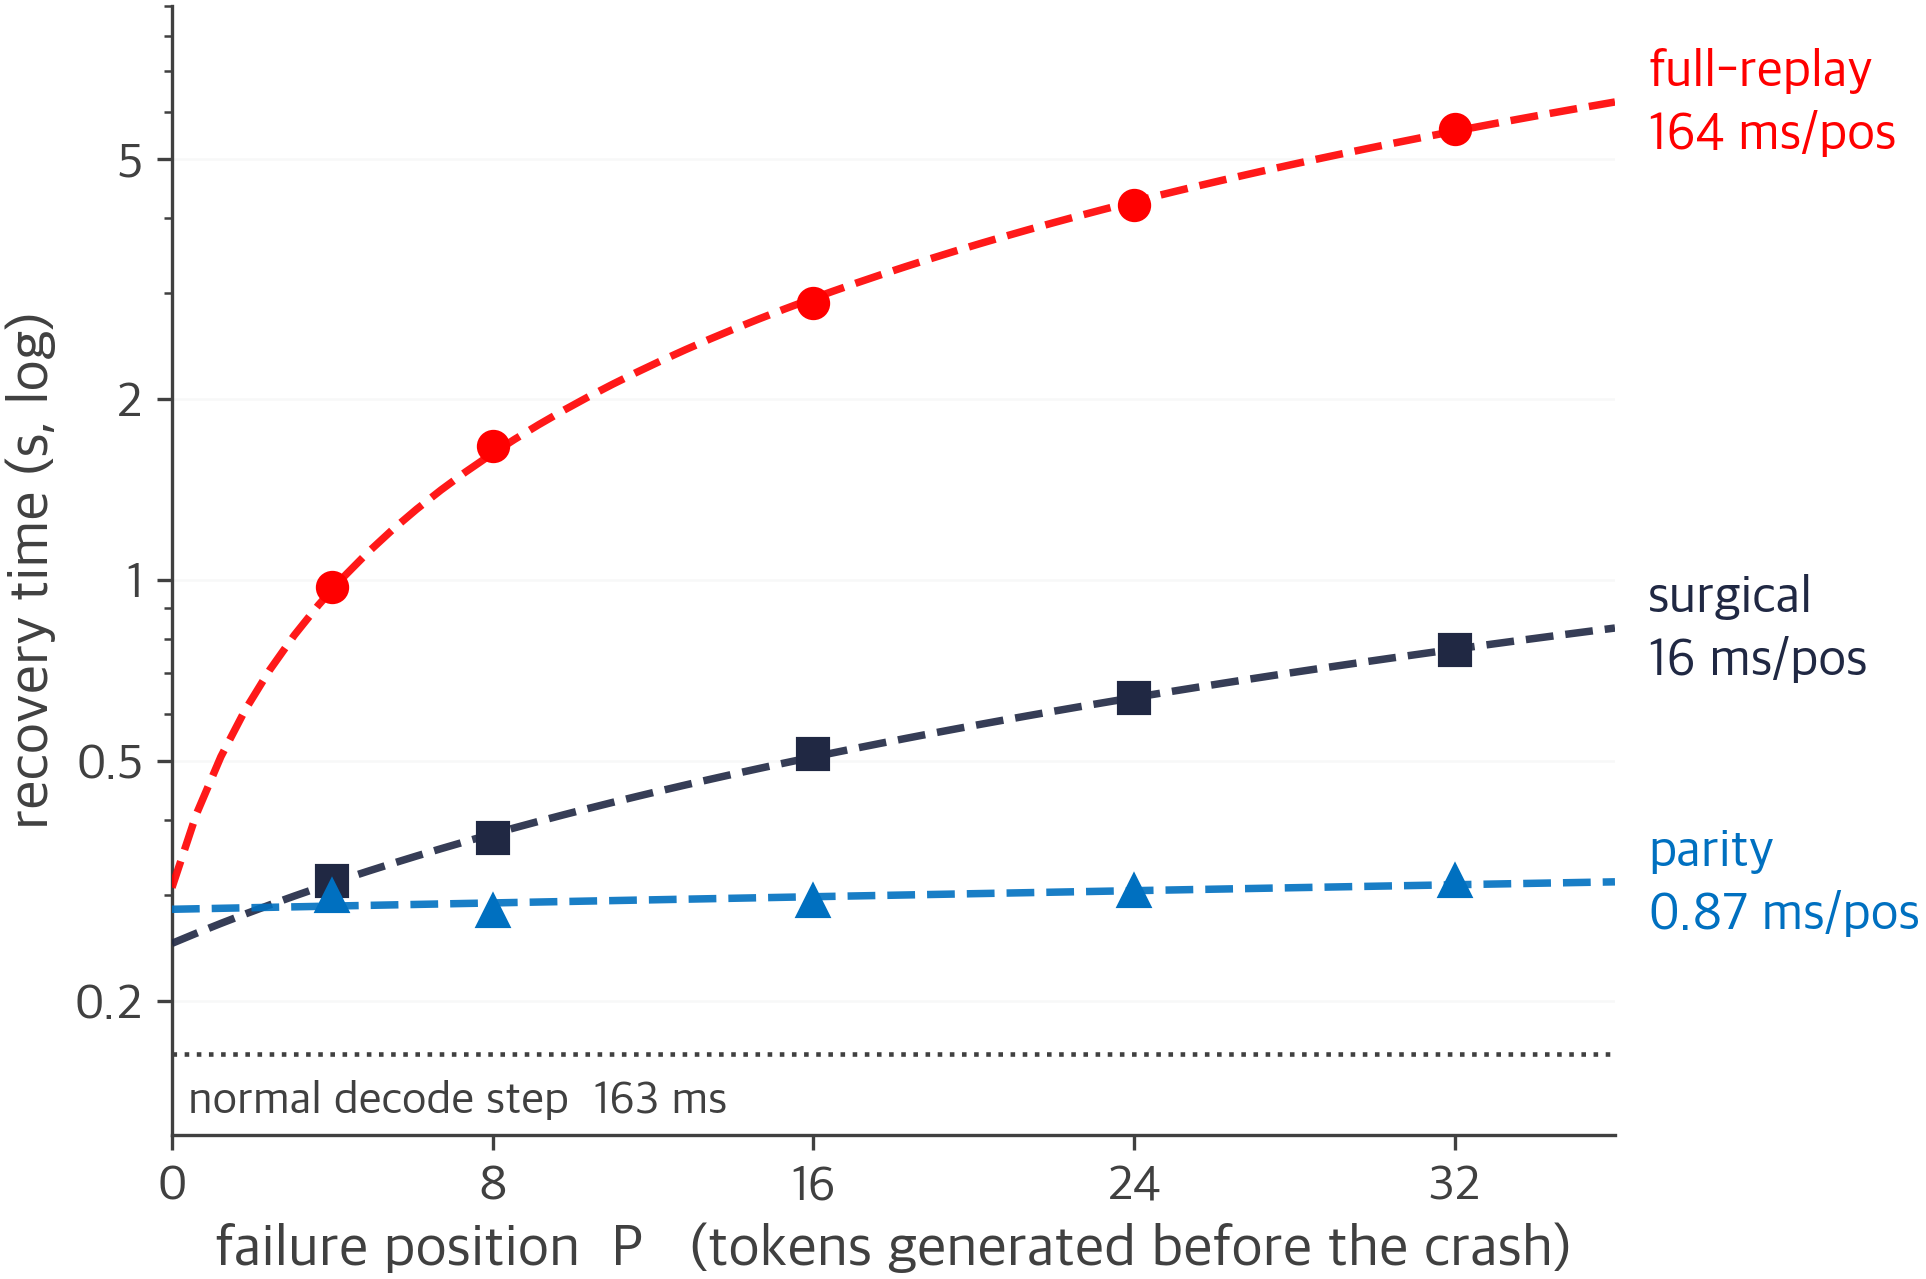
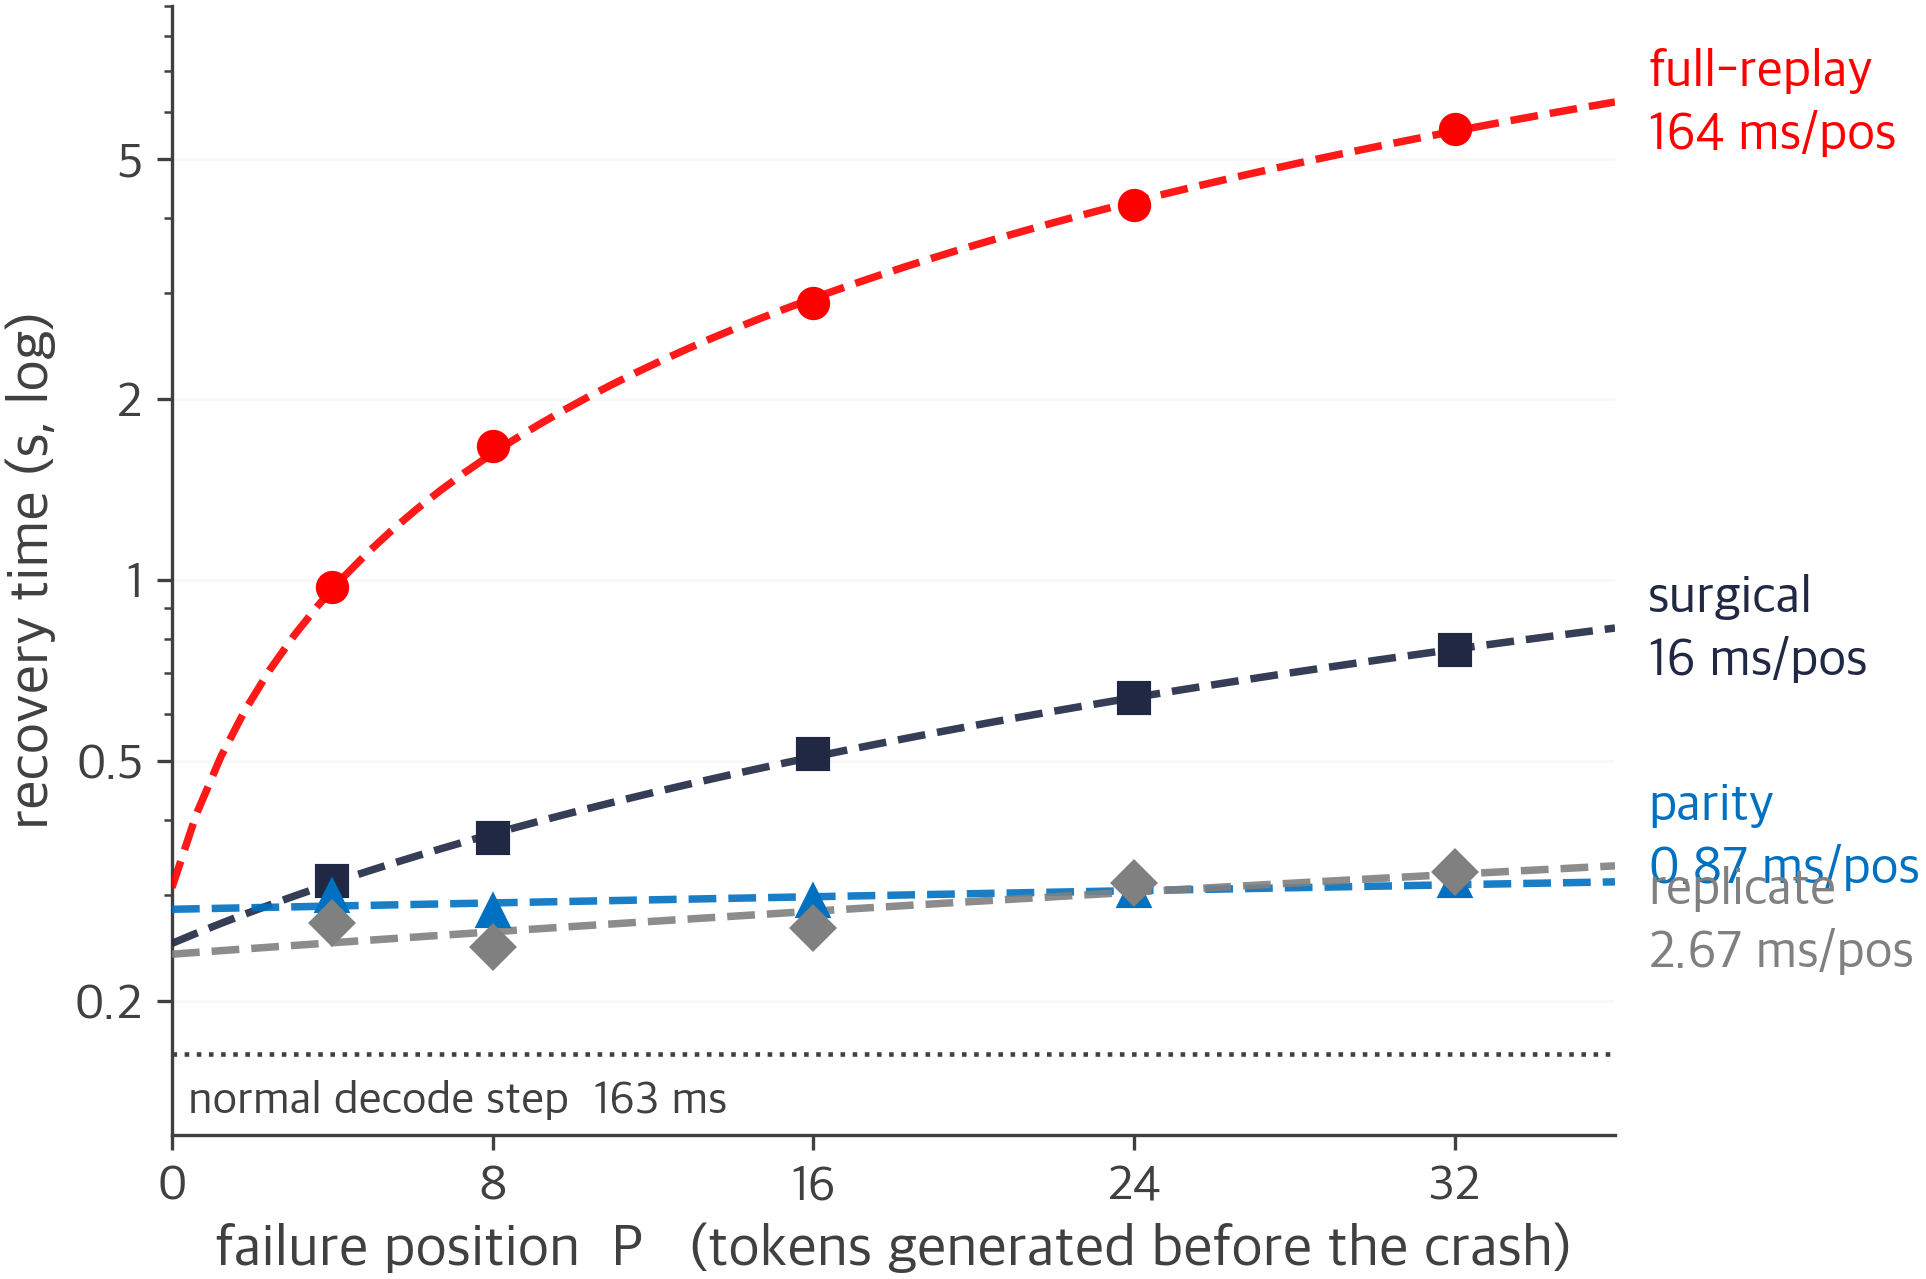
feat(b1): full KV replication fleet measurement — parity's TTR rival
Fleet sweep (victim on-1, OPT-350M, sync chain) 5/5 valid, all
replicate_branch_ran=True: replicate TTR(P) = 239.3ms + 2.67ms*P.

Confirms the 2D-Pareto thesis empirically: replicate is flat like parity
(slope 2.67 vs surgical 16, full-replay 164) — both zero-recompute. replicate's
intercept (239) is BELOW parity's (284) because replicate installs one stored
copy while parity fetches N-1 survivors + XORs; slopes cross at P~=25, so on
TTR they effectively tie. parity's only advantage is steady-state storage:
max vs Sigma = 2.25x (9->4 layers), O(1) vs O(N). Hence the comparison is a
2D Pareto (TTR x storage) where only parity sits in the low-low corner;
replicate is Pareto-close but pays 2.25x storage.

- b1_ft_overhead.json computed (replicate 36864B vs parity 16384B).
- fig_recovery_2d (Pareto), fig_recovery_ttr_slide (4 lines, log axis, parity/
  replicate labels de-collided), fig_storage_scaling regenerated from real data.
- REPORT §B1-REPLICATE + finding #12; PHASES Phase B1-REPLICATE.
- Honest limits stated: replicate & parity have identical steady-state upload
  network (same KV columns); parity's sole differentiator is coordinator storage.

Claude-Session: https://claude.ai/code/session_01FfKQPAstkv5E1GtvR5op9j

Changed region(s): [[0.5607, 0.6099, 0.9969, 0.7623], [0.0935, 0.7013, 0.5296, 0.7623]]

diff --git a/paper/figures/make_recovery_ttr_slide.py b/paper/figures/make_recovery_ttr_slide.py
@@ -79,11 +79,14 @@ for mode, (color, marker, label) in STYLE.items():
             color=color, linewidth=1.8, alpha=0.9, zorder=3)
 
     # 범례 대신 선 끝에 직접 이름을 붙인다. 눈이 범례와 선을 오갈 일이 없다.
+    # parity/replicate 는 둘 다 평평해 선 끝(≈0.3s)에서 라벨이 겹친다 —
+    # 세로로 살짝 벌려 둘 다 읽히게 한다 (offset points 로 픽셀 단위 이동).
     slope_ms = f["slope"] * 1e3
     tail = f["intercept"] + f["slope"] * 36
+    dy = {"parity": 11, "replicate": -13}.get(mode, 0)
     ax.annotate(f"{label}\n{slope_ms:.2f} ms/pos" if slope_ms < 10
                 else f"{label}\n{slope_ms:.0f} ms/pos",
-                xy=(36, tail), xytext=(8, 0), textcoords="offset points",
+                xy=(36, tail), xytext=(8, dy), textcoords="offset points",
                 va="center", ha="left", fontsize=12.5, color=color,
                 fontweight="bold", linespacing=1.4, annotation_clip=False)
 

diff --git a/experiments/b1_ft_fleet.py b/experiments/b1_ft_fleet.py
@@ -114,7 +114,7 @@ def set_worker_replication(on: bool) -> None:
 
 
 def restart_coordinator_and_wait(
-    coord_host: str, coord_ssh: str, ssh_key: str, timeout: int = 220
+    coord_host: str, coord_ssh: str, ssh_key: str, timeout: int = 320
 ) -> float:
     """Restart the coordinator (daemon-reload picks up the drop-in) and block
     until it has re-scheduled and is serving. Returns wall seconds waited."""
